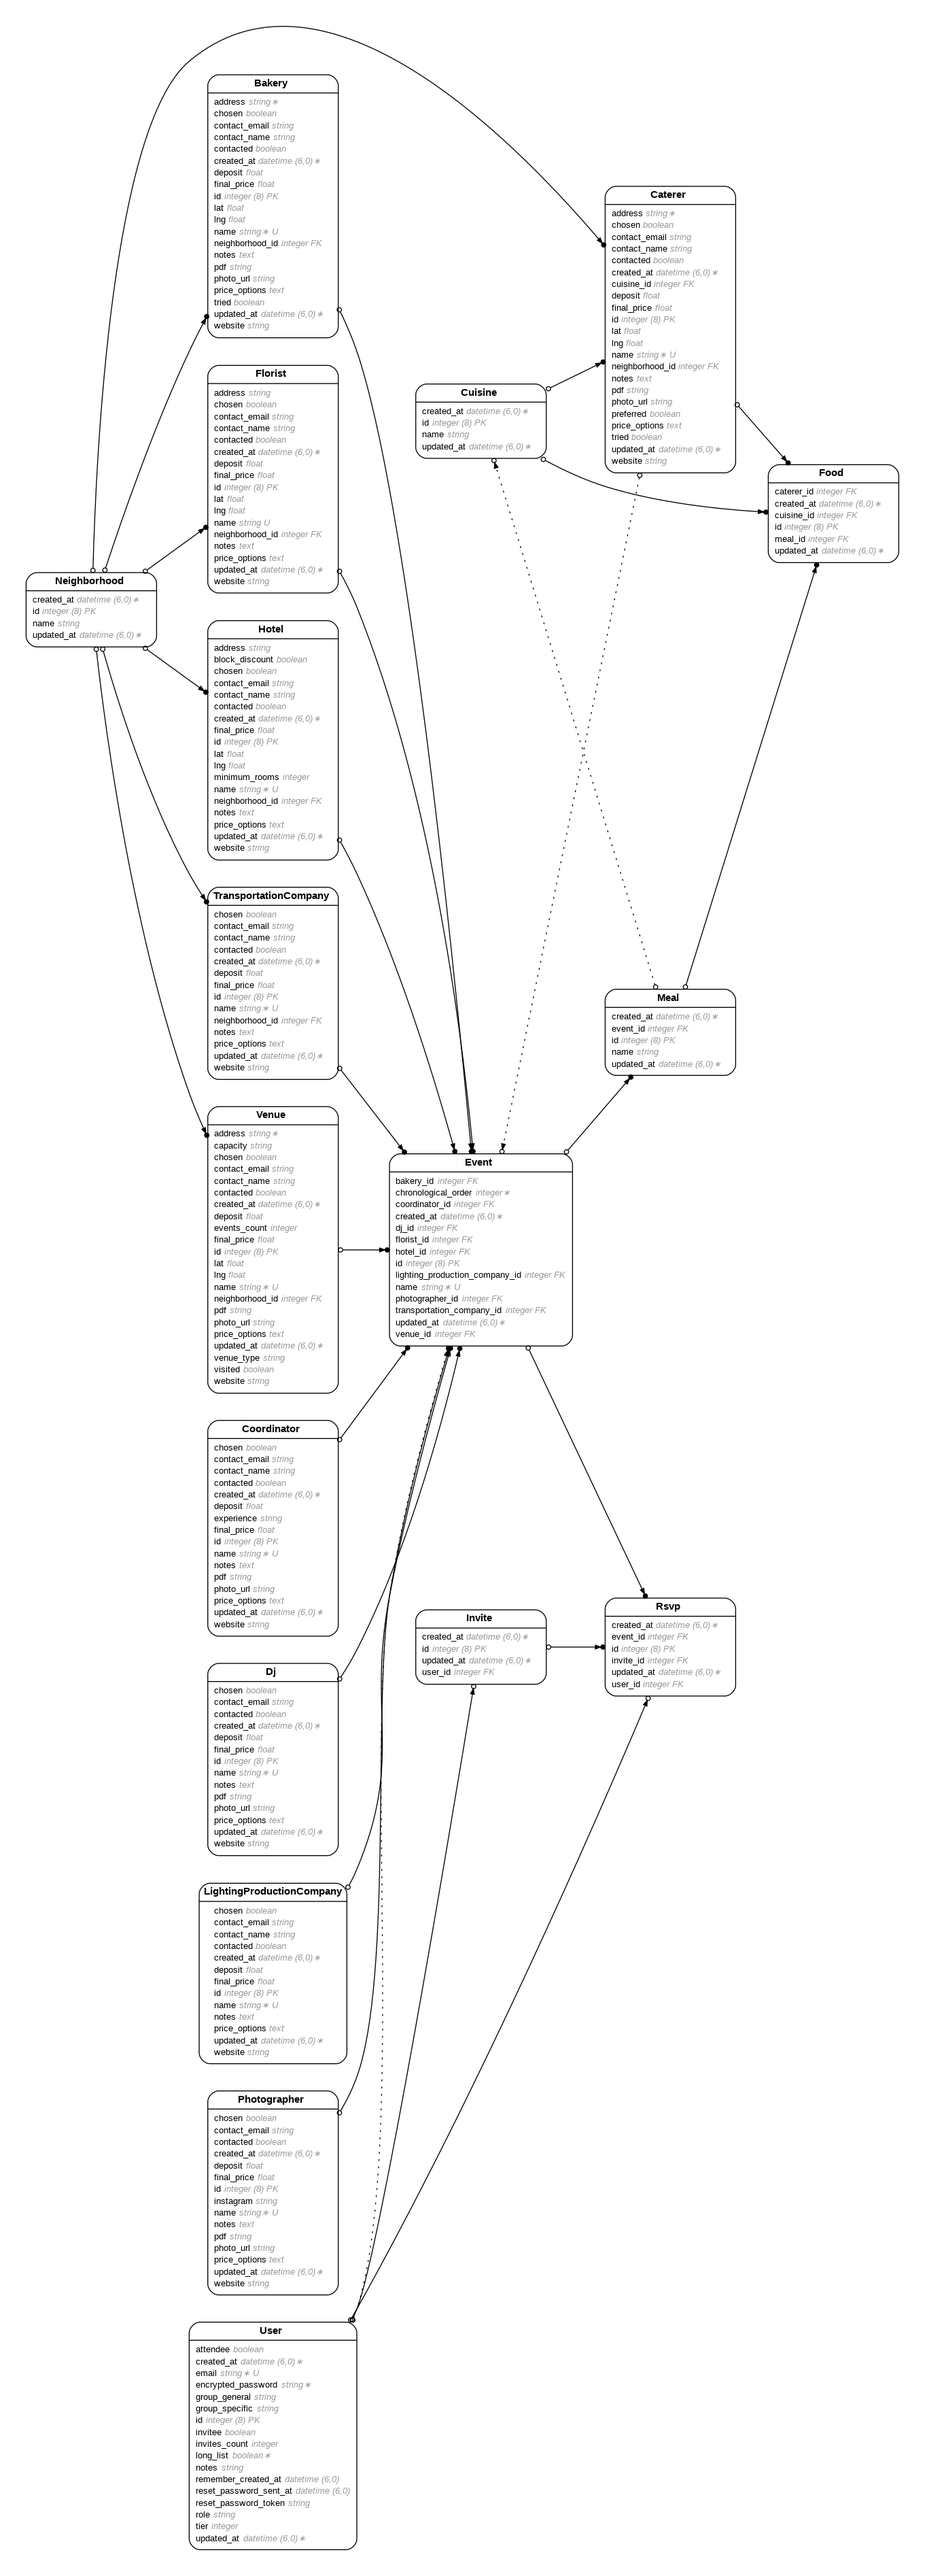
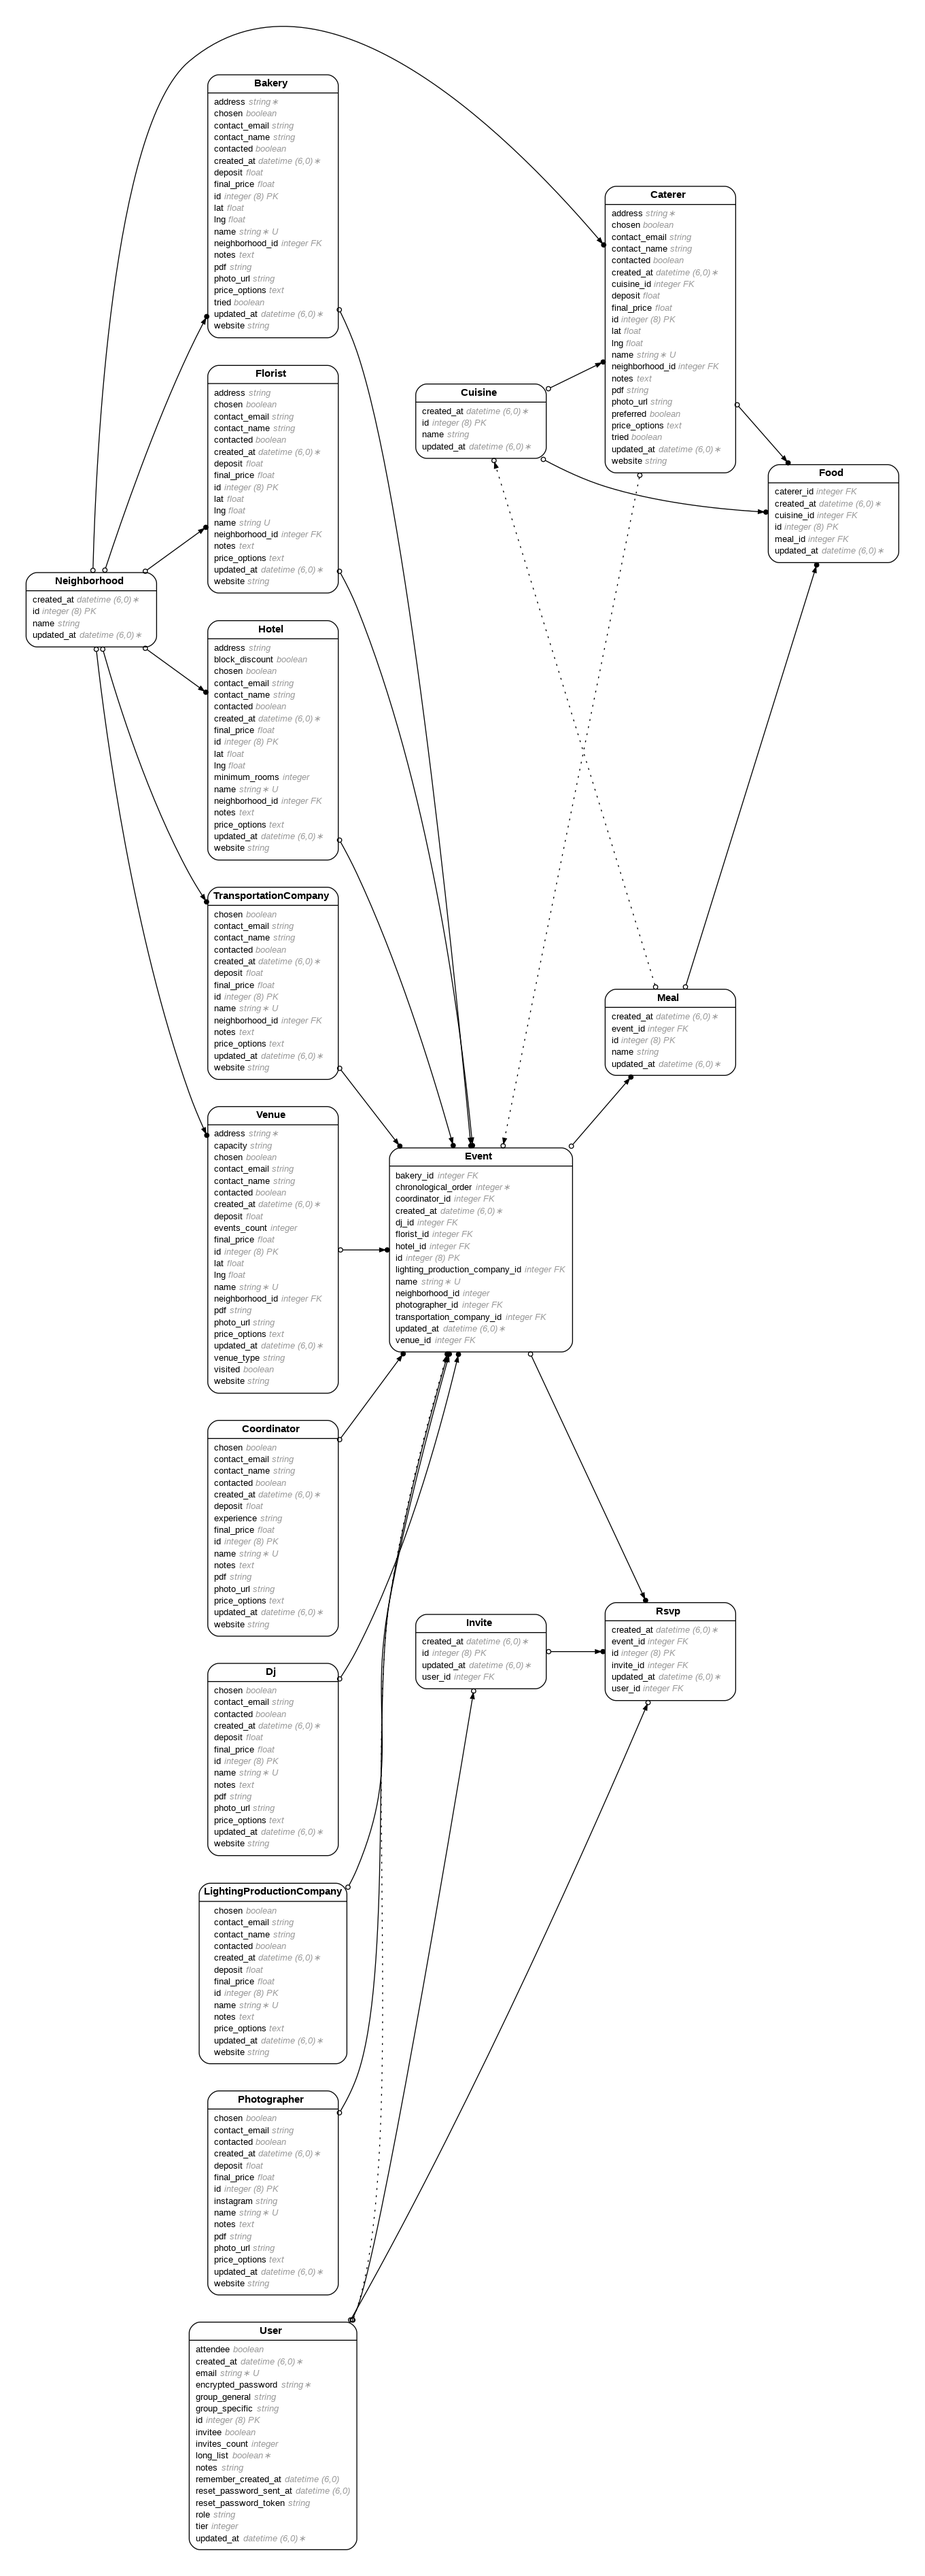
Updates to Event index

diff --git a/app/controllers/events_controller.rb b/app/controllers/events_controller.rb
@@ -13,6 +13,7 @@ class EventsController < ApplicationController
     @list_of_photographers = Photographer.all.order({ :name => :desc })
     @list_of_transportation_companies = TransportationCompany.all.order({ :name => :desc })
     @list_of_venues = Venue.all.order({ :name => :desc })
+    @list_of_neighborhoods = Neighborhood.all.order({ :name => :desc })
 
     render({ :template => "events/index" })
   end
@@ -24,6 +25,9 @@ class EventsController < ApplicationController
 
     @the_event = matching_events.at(0)
 
+    @list_of_neighborhoods = Neighborhood.all.order({ :name => :desc })
+    @the_bakery_neighborhood = Neighborhood.where({ :id => @the_bakery.neighborhood_id }).at(0)
+
     render({ :template => "events/show" })
   end
 
@@ -31,15 +35,17 @@ class EventsController < ApplicationController
     the_event = Event.new
     the_event.name = params.fetch("query_name")
     the_event.chronological_order = params.fetch("query_chronological_order")
-    the_event.bakery_id = params.fetch("query_bakery_id")
-    the_event.coordinator_id = params.fetch("query_coordinator_id")
-    the_event.dj_id = params.fetch("query_dj_id")
-    the_event.florist_id = params.fetch("query_florist_id")
-    the_event.hotel_id = params.fetch("query_hotel_id")
-    the_event.lighting_production_company_id = params.fetch("query_lighting_production_company_id")
-    the_event.photographer_id = params.fetch("query_photographer_id")
-    the_event.transportation_company_id = params.fetch("query_transportation_company_id")
-    the_event.venue_id = params.fetch("query_venue_id")
+
+    the_event.bakery_id = Bakery.where({ :name => params.fetch("query_bakery_name") }).at(0).id
+    the_event.coordinator_id = Coordinator.where({ :name => params.fetch("query_coordinator_name") }).at(0).id
+    the_event.dj_id = Dj.where({ :name => params.fetch("query_dj_name") }).at(0).id
+    the_event.florist_id = Florist.where({ :name => params.fetch("query_florist_name") }).at(0).id
+    the_event.hotel_id = Hotel.where({ :name => params.fetch("query_hotel_name") }).at(0).id
+    the_event.lighting_production_company_id = LightingProductionCompany.where({ :name => params.fetch("query_lighting_production_company_name") }).at(0).id
+    the_event.photographer_id = Photographer.where({ :name => params.fetch("query_photographer_name") }).at(0).id
+    the_event.transportation_company_id = TransportationCompany.where({ :name => params.fetch("query_transportation_company_name") }).at(0).id
+    the_event.venue_id = Venue.where({ :name => params.fetch("query_venue_name") }).at(0).id
+    the_event.neighborhood_id = Neighborhood.where({ :name => params.fetch("query_neighborhood_name") }).at(0).id
 
     if the_event.valid?
       the_event.save
@@ -55,15 +61,17 @@ class EventsController < ApplicationController
 
     the_event.name = params.fetch("query_name")
     the_event.chronological_order = params.fetch("query_chronological_order")
-    the_event.bakery_id = params.fetch("query_bakery_id")
-    the_event.coordinator_id = params.fetch("query_coordinator_id")
-    the_event.dj_id = params.fetch("query_dj_id")
-    the_event.florist_id = params.fetch("query_florist_id")
-    the_event.hotel_id = params.fetch("query_hotel_id")
-    the_event.lighting_production_company_id = params.fetch("query_lighting_production_company_id")
-    the_event.photographer_id = params.fetch("query_photographer_id")
-    the_event.transportation_company_id = params.fetch("query_transportation_company_id")
-    the_event.venue_id = params.fetch("query_venue_id")
+
+    the_event.bakery_id = Bakery.where({ :name => params.fetch("query_bakery_name") }).at(0).id
+    the_event.coordinator_id = Coordinator.where({ :name => params.fetch("query_coordinator_name") }).at(0).id
+    the_event.dj_id = Dj.where({ :name => params.fetch("query_dj_name") }).at(0).id
+    the_event.florist_id = Florist.where({ :name => params.fetch("query_florist_name") }).at(0).id
+    the_event.hotel_id = Hotel.where({ :name => params.fetch("query_hotel_name") }).at(0).id
+    the_event.lighting_production_company_id = LightingProductionCompany.where({ :name => params.fetch("query_lighting_production_company_name") }).at(0).id
+    the_event.photographer_id = Photographer.where({ :name => params.fetch("query_photographer_name") }).at(0).id
+    the_event.transportation_company_id = TransportationCompany.where({ :name => params.fetch("query_transportation_company_name") }).at(0).id
+    the_event.venue_id = Venue.where({ :name => params.fetch("query_venue_name") }).at(0).id
+    the_event.neighborhood_id = Neighborhood.where({ :name => params.fetch("query_neighborhood_name") }).at(0).id
 
     if the_event.valid?
       the_event.save

diff --git a/db/schema.rb b/db/schema.rb
@@ -10,7 +10,7 @@
 #
 # It's strongly recommended that you check this file into your version control system.
 
-ActiveRecord::Schema[7.1].define(version: 2024_12_05_081149) do
+ActiveRecord::Schema[7.1].define(version: 2024_12_05_083637) do
   # These are extensions that must be enabled in order to support this database
   enable_extension "plpgsql"
 
@@ -114,6 +114,7 @@ ActiveRecord::Schema[7.1].define(version: 2024_12_05_081149) do
     t.integer "venue_id"
     t.datetime "created_at", null: false
     t.datetime "updated_at", null: false
+    t.integer "neighborhood_id"
   end
 
   create_table "florists", force: :cascade do |t|

diff --git a/app/models/event.rb b/app/models/event.rb
@@ -13,6 +13,7 @@
 #  florist_id                     :integer
 #  hotel_id                       :integer
 #  lighting_production_company_id :integer
+#  neighborhood_id                :integer
 #  photographer_id                :integer
 #  transportation_company_id      :integer
 #  venue_id                       :integer

diff --git a/db/migrate/20241205083637_add_neighborhood_id_to_events.rb b/db/migrate/20241205083637_add_neighborhood_id_to_events.rb
@@ -1,0 +1,5 @@
+class AddNeighborhoodIdToEvents < ActiveRecord::Migration[7.1]
+  def change
+    add_column :events, :neighborhood_id, :integer
+  end
+end
